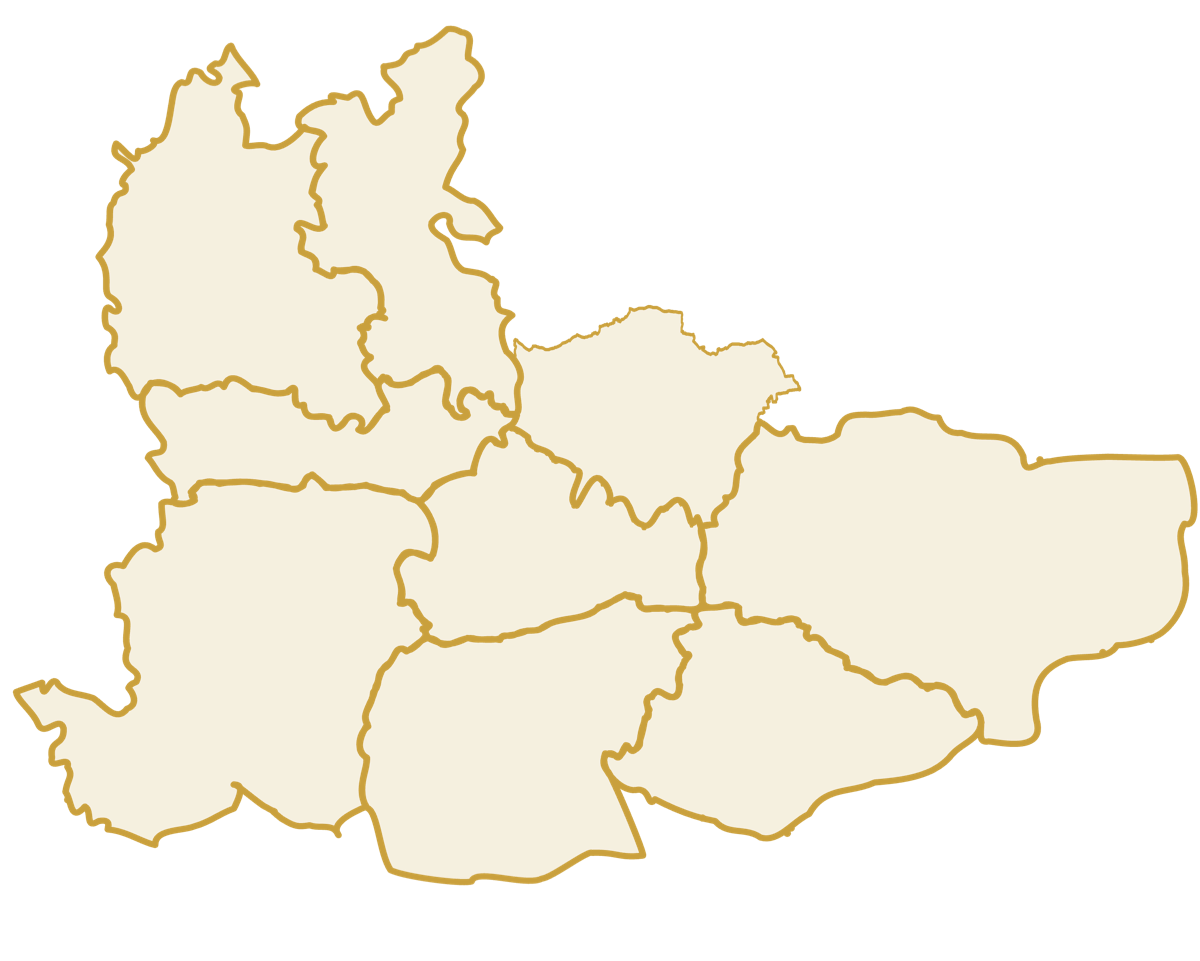
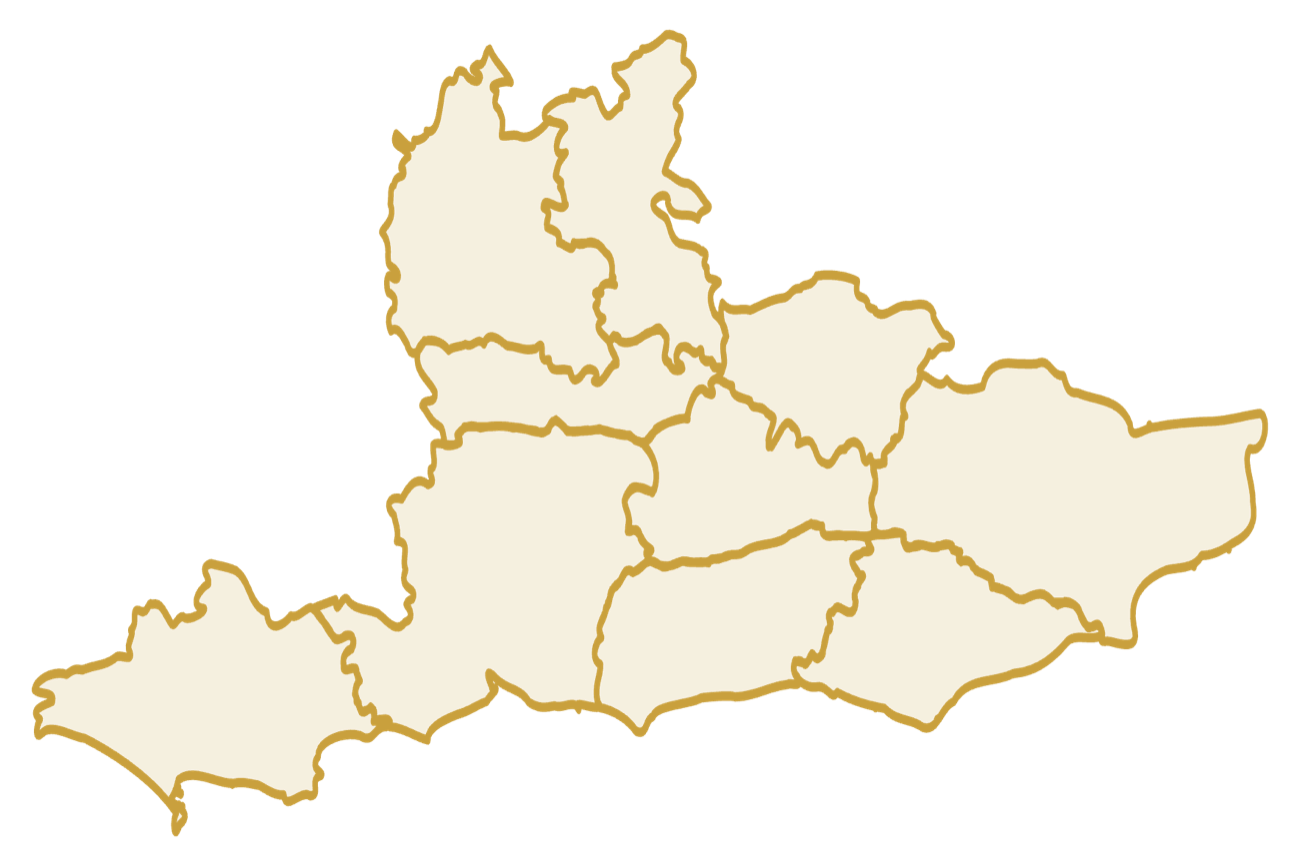
Coverage map: include Dorset (full southern England geometry)
Re-render from the full England ceremonial-counties dataset so Dorset (SW) is
included alongside the South East counties. 10 counties total; heading restored
to 'London & the South of England'.

Changed region(s): [[0.0, 0.0311, 1.0, 0.9654]]

diff --git a/components/CoverageMap.tsx b/components/CoverageMap.tsx
@@ -6,16 +6,17 @@ import { SectionDivider } from "@/components/ui/SectionDivider"
 
 // County label positions as a % of the rendered map image (computed from the
 // real Ordnance Survey county geometry in public/coverage-map.png).
-const labels: { name: string; x: number; y: number; small?: boolean }[] = [
-  { name: "Oxfordshire", x: 20.2, y: 24.8 },
-  { name: "Buckinghamshire", x: 34.1, y: 23.2 },
-  { name: "Berkshire", x: 27.4, y: 45.4 },
-  { name: "London", x: 54.6, y: 43.5 },
-  { name: "Surrey", x: 45.9, y: 55.7 },
-  { name: "Kent", x: 78.9, y: 60 },
-  { name: "Hampshire", x: 18.8, y: 68.7 },
-  { name: "West Sussex", x: 44.1, y: 76.9 },
-  { name: "East Sussex", x: 66.1, y: 75.1 },
+const labels: { name: string; x: number; y: number }[] = [
+  { name: "Oxfordshire", x: 38.4, y: 25 },
+  { name: "Buckinghamshire", x: 48.8, y: 23.4 },
+  { name: "Berkshire", x: 43.9, y: 44.6 },
+  { name: "London", x: 64.3, y: 42.7 },
+  { name: "Surrey", x: 57.7, y: 54.6 },
+  { name: "Kent", x: 82.2, y: 58.1 },
+  { name: "Hampshire", x: 37.4, y: 66.9 },
+  { name: "West Sussex", x: 56.4, y: 72.5 },
+  { name: "East Sussex", x: 72.9, y: 72.7 },
+  { name: "Dorset", x: 16.4, y: 80.5 },
 ]
 
 export function CoverageMap() {
@@ -44,7 +45,7 @@ export function CoverageMap() {
           viewport={{ once: true }}
           className="font-display mt-3 text-center text-3xl text-white sm:text-5xl"
         >
-          London &amp; the South East
+          London &amp; the South of England
         </motion.h2>
 
         <motion.p
@@ -66,9 +67,9 @@ export function CoverageMap() {
         >
           <Image
             src="/coverage-map.png"
-            alt="Map of the counties we cover — Greater London, Surrey, Kent, East and West Sussex, Hampshire, Berkshire, Oxfordshire and Buckinghamshire"
-            width={1200}
-            height={961}
+            alt="Map of the counties we cover — Greater London, Surrey, Kent, East and West Sussex, Hampshire, Dorset, Berkshire, Oxfordshire and Buckinghamshire"
+            width={1300}
+            height={867}
             className="h-auto w-full"
             priority={false}
           />
@@ -93,8 +94,8 @@ export function CoverageMap() {
           viewport={{ once: true }}
           className="mx-auto mt-12 max-w-xl text-center text-sm leading-relaxed text-white/55"
         >
-          If your brief sits outside Greater London or the South East, we&apos;ll tell you upfront —
-          before you commit anything.
+          If your brief sits outside Greater London or the South of England, we&apos;ll tell you
+          upfront — before you commit anything.
         </motion.p>
       </div>
     </section>